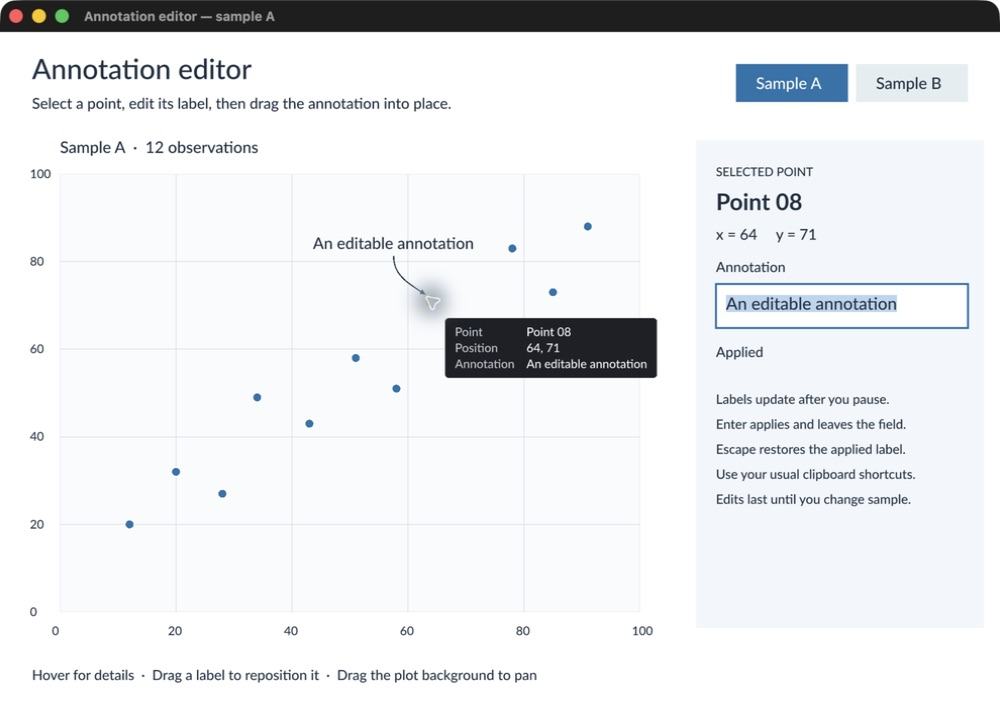
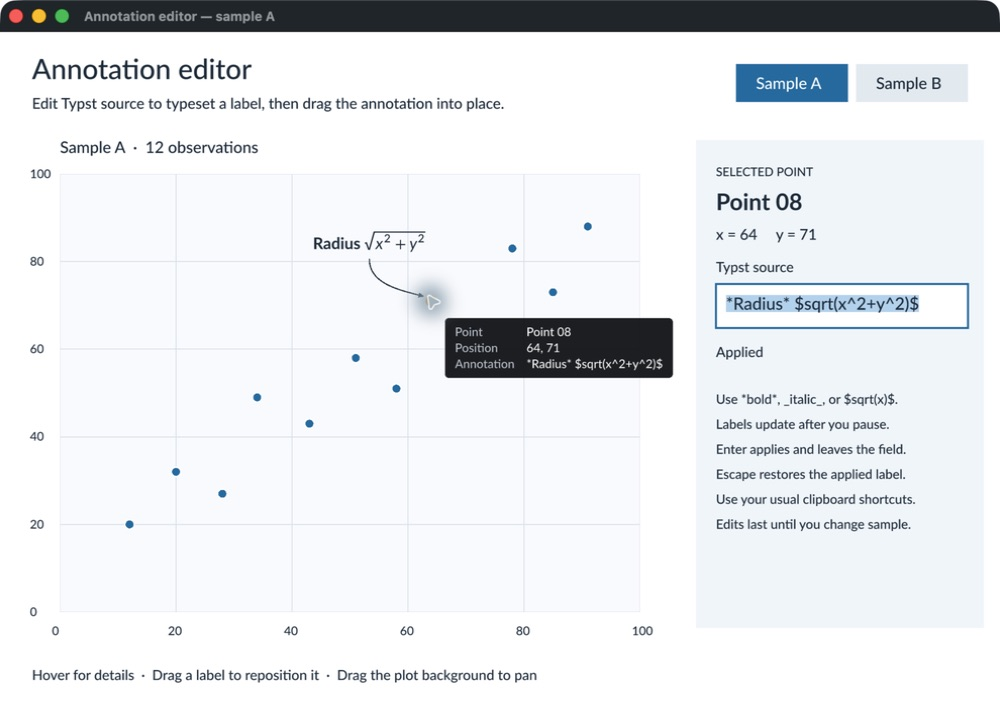
feat(examples): typeset annotation editor markup

diff --git a/examples/winit-annotation-editor/tests/interaction.rs b/examples/winit-annotation-editor/tests/interaction.rs
@@ -357,3 +357,122 @@ fn an_old_application_wake_cannot_change_a_replacement() {
     assert!(!h.state().focused);
     assert_ne!(h.state().points[7].annotation, "old generation");
 }
+
+fn text_marks(
+    marks: &[avenger_scenegraph::marks::mark::SceneMark],
+) -> Vec<&avenger_scenegraph::marks::text::SceneTextMark> {
+    use avenger_scenegraph::marks::mark::SceneMark;
+    marks
+        .iter()
+        .flat_map(|mark| match mark {
+            SceneMark::Text(mark) => vec![mark.as_ref()],
+            SceneMark::Group(group) => text_marks(&group.marks),
+            _ => Vec::new(),
+        })
+        .collect()
+}
+
+#[test]
+fn typst_source_stays_literal_in_the_field_and_typesets_in_the_annotation() {
+    use avenger_text::types::TextSyntaxMode;
+    let mut h = Harness::new();
+    h.focus();
+    let source = "*Distance* $sqrt(x^2+y^2)$";
+    h.replace(source);
+    h.key(Key::Named(NamedKey::Enter), None);
+    assert_eq!(h.state().editor.text(), source);
+    assert!(h.state().annotation_error.is_none());
+    let marks = text_marks(&h.app.scene_graph().marks);
+    let annotation = marks
+        .iter()
+        .find(|mark| mark.name == "annotation-7")
+        .unwrap();
+    assert_eq!(annotation.text, source.to_string().into());
+    assert_eq!(annotation.text_syntax, TextSyntaxMode::TypstMarkup);
+    assert!(marks
+        .iter()
+        .any(|mark| mark.text == source.to_string().into()
+            && mark.text_syntax == TextSyntaxMode::Plain));
+    let state = h.state();
+    let plain = state.shaped_line().unwrap();
+    let typeset = state
+        .engine
+        .measure_bounds(&winit_annotation_editor::state::annotation_config(source))
+        .unwrap();
+    assert!(plain.bounds.width > typeset.width + 10.0);
+}
+
+#[test]
+fn invalid_markup_preserves_the_preview_and_enter_keeps_the_draft_editable() {
+    let mut h = Harness::new();
+    h.focus();
+    let previous = h.state().points[7].annotation.clone();
+    let update = h.replace("$sqrt(x");
+    let stale = wake(&update, "apply");
+    h.advance(350);
+    let update = h.wake(stale.clone());
+    assert!(update.scene_graph.is_some());
+    assert!(!update.status.rebuild_geometry);
+    assert_eq!(h.state().points[7].annotation, previous);
+    assert_eq!(h.state().editor.text(), "$sqrt(x");
+    assert!(h.state().annotation_error.is_some());
+    h.key(Key::Named(NamedKey::ArrowLeft), None);
+    assert!(h.state().annotation_error.is_some());
+    h.key(Key::Named(NamedKey::Enter), None);
+    assert!(h.state().focused);
+    assert_eq!(h.state().points[7].annotation, previous);
+    h.replace("_Fixed_ $sqrt(x)$");
+    h.key(Key::Named(NamedKey::Enter), None);
+    assert!(!h.state().focused);
+    assert!(h.state().annotation_error.is_none());
+    assert_eq!(h.state().points[7].annotation, "_Fixed_ $sqrt(x)$");
+    h.advance(500);
+    h.wake(stale);
+    assert_eq!(h.state().points[7].annotation, "_Fixed_ $sqrt(x)$");
+}
+
+#[test]
+fn escape_and_point_changes_discard_invalid_markup_without_losing_the_valid_label() {
+    let mut h = Harness::new();
+    h.focus();
+    let previous = h.state().points[7].annotation.clone();
+    h.replace("$sqrt(x");
+    h.key(Key::Named(NamedKey::Enter), None);
+    h.key(Key::Named(NamedKey::Escape), None);
+    assert_eq!(h.state().editor.text(), previous);
+    assert!(h.state().annotation_error.is_none());
+    h.focus();
+    h.replace("$sqrt(x");
+    h.send(WindowEvent::WindowFocused(false));
+    assert!(!h.state().focused);
+    assert_eq!(h.state().editor.text(), "$sqrt(x");
+    assert_eq!(h.state().points[7].annotation, previous);
+    let point = h.state().point_position(2);
+    h.send(WindowEvent::WindowFocused(true));
+    h.move_to(point);
+    h.down();
+    h.up();
+    assert_eq!(h.state().selected, 2);
+    assert_eq!(h.state().editor.text(), "");
+    assert!(h.state().annotation_error.is_none());
+    assert_eq!(h.state().points[7].annotation, previous);
+}
+
+#[test]
+fn blank_source_removes_the_annotation() {
+    for source in ["", "   "] {
+        let mut h = Harness::new();
+        h.focus();
+        h.all();
+        h.key(Key::Named(NamedKey::Backspace), None);
+        if !source.is_empty() {
+            h.key(Key::Character(' '), Some(source));
+        }
+        h.key(Key::Named(NamedKey::Enter), None);
+        assert_eq!(h.state().points[7].annotation, source);
+        assert!(h.state().annotation_error.is_none());
+        assert!(!text_marks(&h.app.scene_graph().marks)
+            .iter()
+            .any(|mark| mark.name == "annotation-7"));
+    }
+}

diff --git a/examples/winit-annotation-editor/src/interaction.rs b/examples/winit-annotation-editor/src/interaction.rs
@@ -20,7 +20,7 @@ use avenger_eventstream::{
 use avenger_geometry::rtree::SceneGraphRTree;
 use avenger_text::text_edit::{cursor_rect_for_offset, Action, Motion, SingleLineEditor};
 
-use crate::state::{Drag, Sample, State};
+use crate::state::{annotation_config, Drag, Sample, State};
 
 type Registration = (EventStreamConfig, Arc<dyn EventStreamHandler<State>>);
 
@@ -162,6 +162,32 @@ fn discard_composition(state: &mut State) {
         }
     }
 }
+// Keep incomplete source in the editor while the chart retains its last valid label.
+fn apply_annotation(state: &mut State, text: String, status: &mut UpdateStatus) -> bool {
+    let validation = if text.trim().is_empty() {
+        Ok(())
+    } else {
+        state
+            .engine
+            .measure_bounds(&annotation_config(&text))
+            .map(|_| ())
+    };
+    match validation {
+        Ok(()) => {
+            let changed = text != state.points[state.selected].annotation;
+            state.points[state.selected].annotation = text;
+            status.rebuild_geometry |= changed;
+            let cleared_error = state.annotation_error.take().is_some();
+            status.rerender |= changed || cleared_error;
+            true
+        }
+        Err(error) => {
+            state.annotation_error = Some(error.to_string());
+            status.rerender = true;
+            false
+        }
+    }
+}
 fn blur(state: &mut State, cancel: bool, status: &mut UpdateStatus) {
     if !state.focused {
         return;
@@ -170,13 +196,13 @@ fn blur(state: &mut State, cancel: bool, status: &mut UpdateStatus) {
     let key = state.key("apply");
     status.commands.extend(state.debounce.cancel(&key).commands);
     if cancel {
+        state.annotation_error = None;
         state
             .editor
             .replace_committed_text(state.points[state.selected].annotation.clone());
     } else {
         let text = state.editor.committed_text().into_string();
-        status.rebuild_geometry |= text != state.points[state.selected].annotation;
-        state.points[state.selected].annotation = text;
+        apply_annotation(state, text, status);
     }
     status.commands.extend([
         Command::CancelWakeup {
@@ -219,6 +245,7 @@ fn select(state: &mut State, selected: usize, status: &mut UpdateStatus) {
     blur(state, false, status);
     state.selected = selected;
     state.editor = SingleLineEditor::new(state.points[selected].annotation.clone());
+    state.annotation_error = None;
     state.scroll = 0.0;
     status.rerender = true;
     status.rebuild_geometry = true;
@@ -332,6 +359,10 @@ impl EventStreamHandler<State> for InputHandler {
                 };
                 let action = match e.key {
                     Key::Named(NamedKey::Enter) => {
+                        let text = state.editor.committed_text().into_string();
+                        if !apply_annotation(state, text, &mut status) {
+                            return status;
+                        }
                         blur(state, false, &mut status);
                         return status;
                     }
@@ -457,9 +488,7 @@ impl EventStreamHandler<State> for InputHandler {
                 let update = state.debounce.handle_wakeup(wake, time);
                 status.commands.extend(update.commands);
                 if let Some(text) = update.commit {
-                    state.points[state.selected].annotation = text;
-                    status.rerender = true;
-                    status.rebuild_geometry = true;
+                    apply_annotation(state, text, &mut status);
                 }
                 if wake.key == state.key("blink")
                     && wake.generation == state.blink_generation

diff --git a/examples/winit-annotation-editor/src/scene.rs b/examples/winit-annotation-editor/src/scene.rs
@@ -16,7 +16,7 @@ use avenger_text::{
     types::{FontWeight, TextBaseline},
 };
 
-use crate::state::{Sample, State};
+use crate::state::{annotation_config, Sample, State};
 
 const INK: [f32; 4] = [0.12, 0.19, 0.26, 1.0];
 const BLUE: [f32; 4] = [0.12, 0.45, 0.67, 1.0];
@@ -65,7 +65,7 @@ pub fn build(state: &mut State) -> Result<SceneGraph, String> {
     let mut marks: Vec<SceneMark> = vec![
         text("Annotation editor", 32.0, 47.0, 28.0).into(),
         text(
-            "Select a point, edit its label, then drag the annotation into place.",
+            "Edit Typst source to typeset a label, then drag the annotation into place.",
             32.0,
             77.0,
             15.0,
@@ -169,8 +169,13 @@ pub fn build(state: &mut State) -> Result<SceneGraph, String> {
             }
             .into(),
         );
-        if !point.annotation.is_empty() {
-            let mut label = text(point.annotation.clone(), x, y, 16.0);
+        if !point.annotation.trim().is_empty() {
+            let config = annotation_config(&point.annotation);
+            let mut label = text(point.annotation.clone(), x, y, config.font_size);
+            label.text_syntax = config.syntax_mode;
+            label.font = config.font.to_string().into();
+            label.font_weight = config.font_weight.into();
+            label.font_style = config.font_style.into();
             label.name = format!("annotation-{i}");
             label.interactive = true;
             label.clip = true;
@@ -214,7 +219,7 @@ pub fn build(state: &mut State) -> Result<SceneGraph, String> {
         )
         .into(),
     );
-    marks.push(text("Annotation", ix, 240.0, 14.0).into());
+    marks.push(text("Typst source", ix, 240.0, 14.0).into());
     let mut field = rect("field", state.field(), [1.0; 4]);
     field.stroke = ColorOrGradient::Color(if state.focused {
         BLUE
@@ -285,13 +290,25 @@ pub fn build(state: &mut State) -> Result<SceneGraph, String> {
     );
     let status = if state.editor.compose_range().is_some() {
         "Composing…"
+    } else if state.annotation_error.is_some() {
+        "Invalid markup · preview unchanged"
     } else if state.pending() {
         "Waiting to apply…"
     } else {
         "Applied"
     };
-    marks.push(text(status, ix, 325.0, 14.0).into());
+    let mut status_label = text(status, ix, 325.0, 14.0);
+    if let Some(error) = &state.annotation_error {
+        let color = ColorOrGradient::Color([0.7, 0.16, 0.12, 1.0]);
+        status_label.color = color.clone().into();
+        let mut detail = text(error.replace(['\n', '\r'], " "), ix, 348.0, 11.0);
+        detail.color = color.into();
+        detail.limit = 245.0.into();
+        marks.push(detail.into());
+    }
+    marks.push(status_label.into());
     for (i, line) in [
+        "Use *bold*, _italic_, or $sqrt(x)$.",
         "Labels update after you pause.",
         "Enter applies and leaves the field.",
         "Escape restores the applied label.",

diff --git a/examples/winit-annotation-editor/src/state.rs b/examples/winit-annotation-editor/src/state.rs
@@ -66,6 +66,7 @@ pub struct State {
     pub load_feedback: Arc<Mutex<Option<Result<(), String>>>>,
     pub debounce: DebouncedCommit<String>,
     pub error: Option<String>,
+    pub annotation_error: Option<String>,
     pub loading: Option<Sample>,
     pub reload: Weak<ReloadCoordinator>,
     pub scene_builds: usize,
@@ -110,7 +111,7 @@ impl State {
                 name: format!("Point {:02}", i + 1),
                 position,
                 annotation: if i == 7 {
-                    "A point worth discussing".into()
+                    "*Radius* $sqrt(x^2+y^2)$".into()
                 } else {
                     String::new()
                 },
@@ -142,6 +143,7 @@ impl State {
             load_feedback: Arc::new(Mutex::new(None)),
             debounce: DebouncedCommit::new(DebounceConfig::new(350)),
             error: None,
+            annotation_error: None,
             loading: None,
             reload: Weak::new(),
             scene_builds: 0,
@@ -189,8 +191,12 @@ impl State {
         self.editor.committed_text().into_string() != self.points[self.selected].annotation
     }
     pub fn apply_action(&mut self, action: Action) -> bool {
+        let before = self.editor.text().to_string();
         match self.editor.apply(action, &self.engine, &text_config()) {
             Ok(changed) => {
+                if before != self.editor.text() {
+                    self.annotation_error = None;
+                }
                 self.error = None;
                 changed
             }
@@ -240,5 +246,15 @@ pub fn text_config() -> TextMeasurementConfig<'static> {
         datetime_locale: None,
         datetime_timezone: None,
         datetime_locale_specs: None,
+    }
+}
+
+// Validation and the chart annotation use the same typesetting configuration.
+pub fn annotation_config(text: &str) -> TextMeasurementConfig<'_> {
+    TextMeasurementConfig {
+        text,
+        font_size: 16.0,
+        syntax_mode: TextSyntaxMode::TypstMarkup,
+        ..text_config()
     }
 }

diff --git a/examples/winit-annotation-editor/README.md b/examples/winit-annotation-editor/README.md
@@ -1,12 +1,14 @@
 # Annotation editor
 
-Select a point, edit its annotation, and drag the label into position. This native example uses scene marks, the shared text editor, event streams, and the winit host directly.
+Select a point, edit its Typst source, and drag the typeset label into position. This native example uses scene marks, the shared text editor, event streams, and the winit host directly.
 
 ```sh
 cargo run --release -p winit-annotation-editor
 ```
 
-- Labels update after 350 ms without an edit. Enter applies immediately. Escape restores the applied label and leaves the field.
+- The field edits literal Typst source. Chart labels typeset markup such as `*bold*`, `_italic_`, and `$sqrt(x^2+y^2)$`.
+- Valid labels update after 350 ms without an edit. Enter applies immediately. Escape restores the applied label and leaves the field.
+- Invalid source stays editable and shows an error while the chart retains its last valid label. Enter keeps the field focused until the source is valid. Escape restores the applied source. Selecting another point discards an invalid draft.
 - Select text with a drag, a double-click, Shift with arrow keys, or the platform select-all shortcut. Use the usual clipboard shortcuts. Input-method composition stays in the field until committed.
 - Drag a label to move it. Drag the plot background to pan. A gesture keeps its original target until release, even over another mark.
 - Hover over a point for 400 ms to show a tooltip. Tooltip movement does not rebuild the application scene.

diff --git a/docs/foundation-migration.md b/docs/foundation-migration.md
@@ -97,6 +97,6 @@ cargo run --release -p winit-annotation-editor
 cargo run --release -p winit-annotation-editor -- --slow-loads
 ```
 
-The [annotation editor](../examples/winit-annotation-editor/README.md) combines text selection, composition, clipboard actions, debounced edits, draggable labels, tooltips, and prepared sample replacement.
+The [annotation editor](../examples/winit-annotation-editor/README.md) edits literal Typst source and displays typeset chart labels. Invalid drafts retain the last valid preview. It combines text selection, composition, clipboard actions, debounced edits, draggable labels, tooltips, and prepared sample replacement.
 
 ![Native annotation editor](images/annotation-editor.png)
